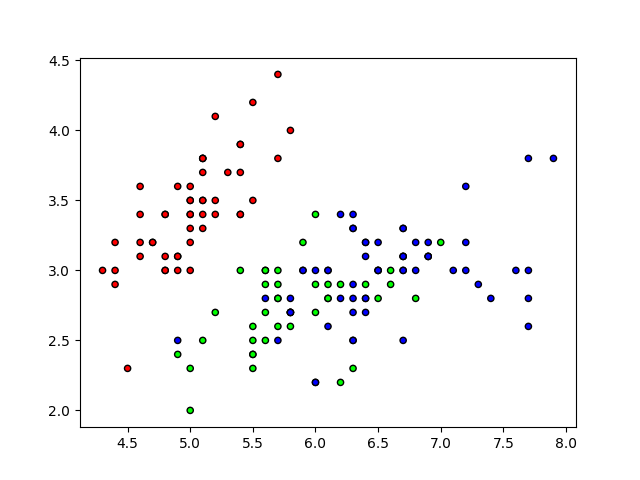
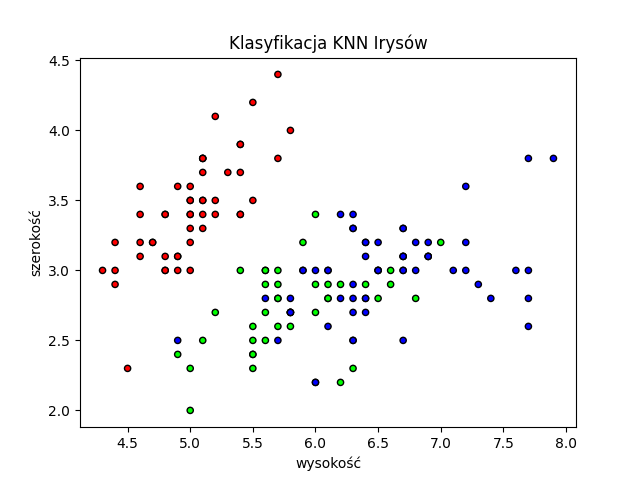
Add files via upload

Changed region(s): [[0.3438, 0.0625, 0.6562, 0.125], [0.4688, 0.9375, 0.5625, 1.0], [0.0312, 0.4375, 0.0625, 0.5938]]

diff --git a/lab2/zad3.py b/lab2/zad3.py
@@ -67,4 +67,12 @@ if __name__ == "__main__":
     #wykres
     plt.figure()
     plt.scatter(X[:, 0], X[:, 1], c=y, cmap=cmap, edgecolor="k", s=20)
+    # oś x
+    plt.xlabel('wysokość')
+    # oś y
+    plt.ylabel('szerokość')
+    # tytuł
+    plt.title('Klasyfikacja KNN Irysów')
     plt.show()
+
+
